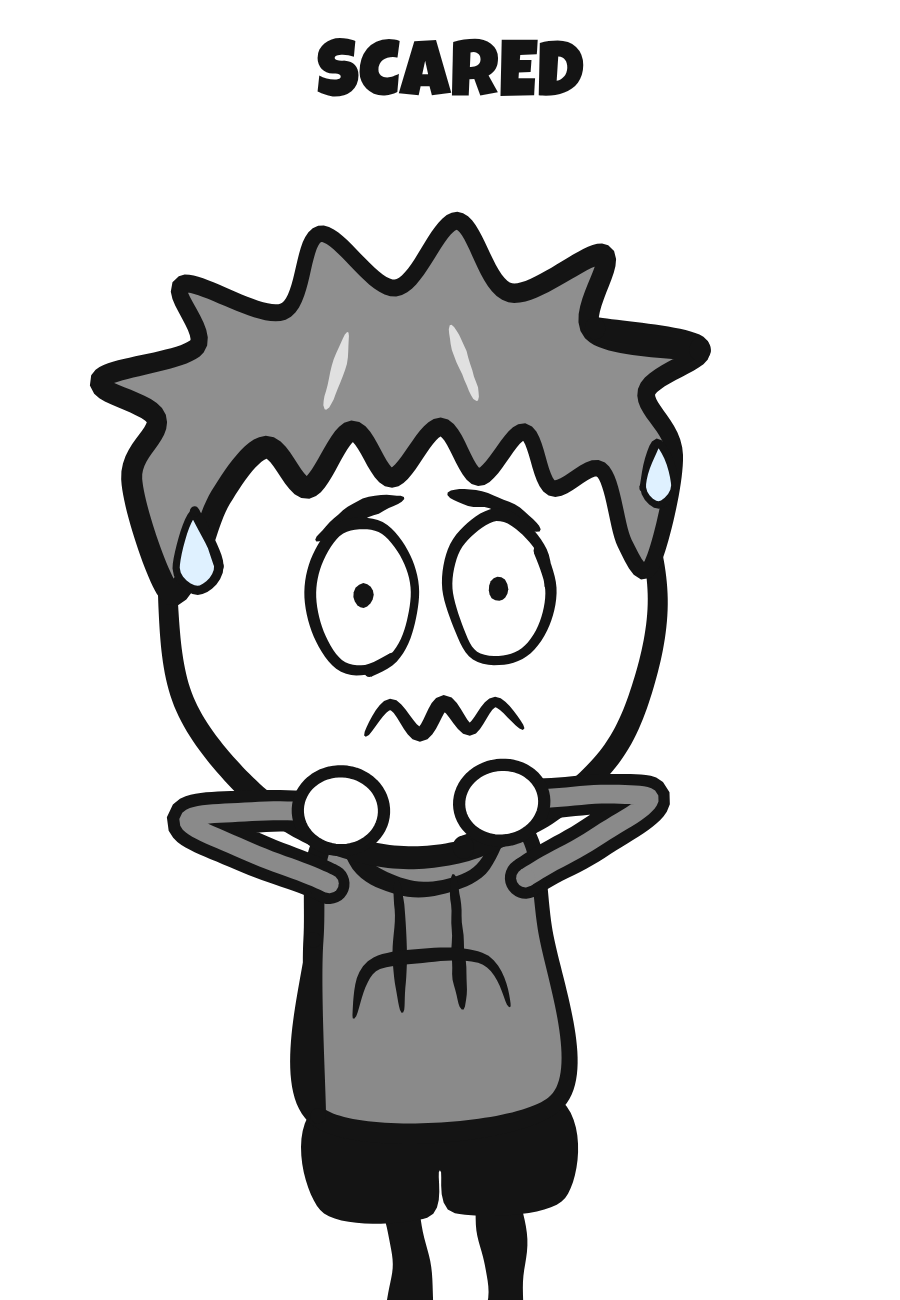
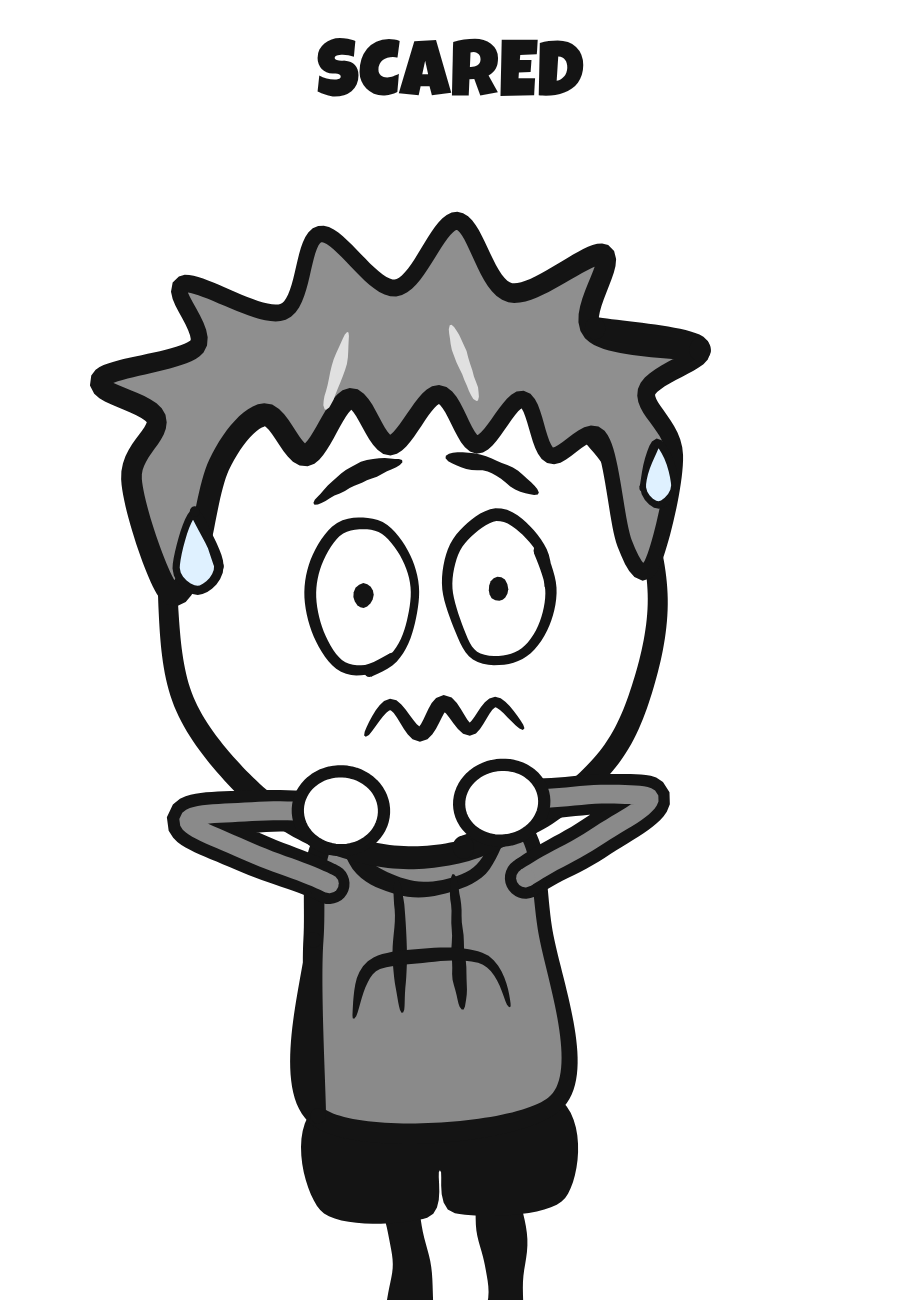
Main character: fringe points lifted slightly so his plain-ink brows sit on bare forehead with full expression (user's pick); sheets re-rendered
Claude-Session: https://claude.ai/code/session_01NTnnYo7Lu1FHFsLREvvYZS

Changed region(s): [[0.2178, 0.2769, 0.6844, 0.4308]]

diff --git a/web/cameos.js b/web/cameos.js
@@ -918,6 +918,8 @@ const Cameos = (() => {
      [-0.4, -0.48], [-0.55, -0.66], [-0.75, -0.46], [-0.88, -0.2]],
     [[[-0.3, -0.8], [-0.2, -1.1]], [[0.3, -0.8], [0.22, -1.1]]]];
   const spikes = outlineHair(...SPIKES);
+  // the same hair with the fringe's points lifted a little, so plain-ink brows sit on bare forehead below it (user decision)
+  const SPIKES_UP = [SPIKES[0], SPIKES[1].map(([x, y]) => [x, y < -0.3 ? y - 0.13 : y]), SPIKES[2]];
 
   // 4. Wavy shoulder length with bangs (same one-silhouette method as Nick)
   const BANGS = [
@@ -935,7 +937,7 @@ const Cameos = (() => {
   const SHADES = { blond: [W, INK], light: ['#d4d4d4', INK], brown: ['#8f8f8f', '#e0e0e0'],
                    dark: ['#555555', '#bdbdbd'], black: [INK, '#8a8a8a'] };
   const spikyShades = Object.fromEntries(Object.entries(SHADES).map(([k, [fillC, lineC]]) => [k,
-    build({ shirt: '#8a8a8a', sleeve: '#8a8a8a', head: head({ hair: outlineHair(...SPIKES, fillC, { lineColor: lineC }), browDy: 20 }), detail: hoodieFront })]));   // brows a touch lower, clear of the spiky fringe
+    build({ shirt: '#8a8a8a', sleeve: '#8a8a8a', head: head({ hair: outlineHair(...SPIKES_UP, fillC, { lineColor: lineC }), browDy: 0 }), detail: hoodieFront })]));   // brows a touch lower, clear of the spiky fringe
 
   // A few months' growth: a full scraggly beard from the sideburns down past
   // the chin (tufts poking out of the edge) and a moustache, on the spiky guy.

diff --git a/STYLE.md b/STYLE.md
@@ -47,7 +47,9 @@ disagree, the rule wins.
   `Arms.arm(..., 'down')` (that bows the elbow in); blend to `'rest'` instead.
 - **No white borders round arms or brows** (user decision): arms are one ink
   outline with the sleeve colour inside, on light or dark clothes alike. Brows
-  are plain ink strokes with no white edge, on everyone.
+  are plain ink strokes with no white edge, on everyone. Brows are drawn under the hair, so a
+  fringe covers them cleanly; the main character's fringe points are lifted a
+  little (`SPIKES_UP`) so his brows sit on bare forehead (user decision).
 - **Suits** (`Cameos.suited`): the jacket runs straight into trousers of the
   same colour; no separate seat block under the jacket (it read as a skirt).
 - **Hands are plain circles** (Animal Crossing style): no thumb, no fingers (not
